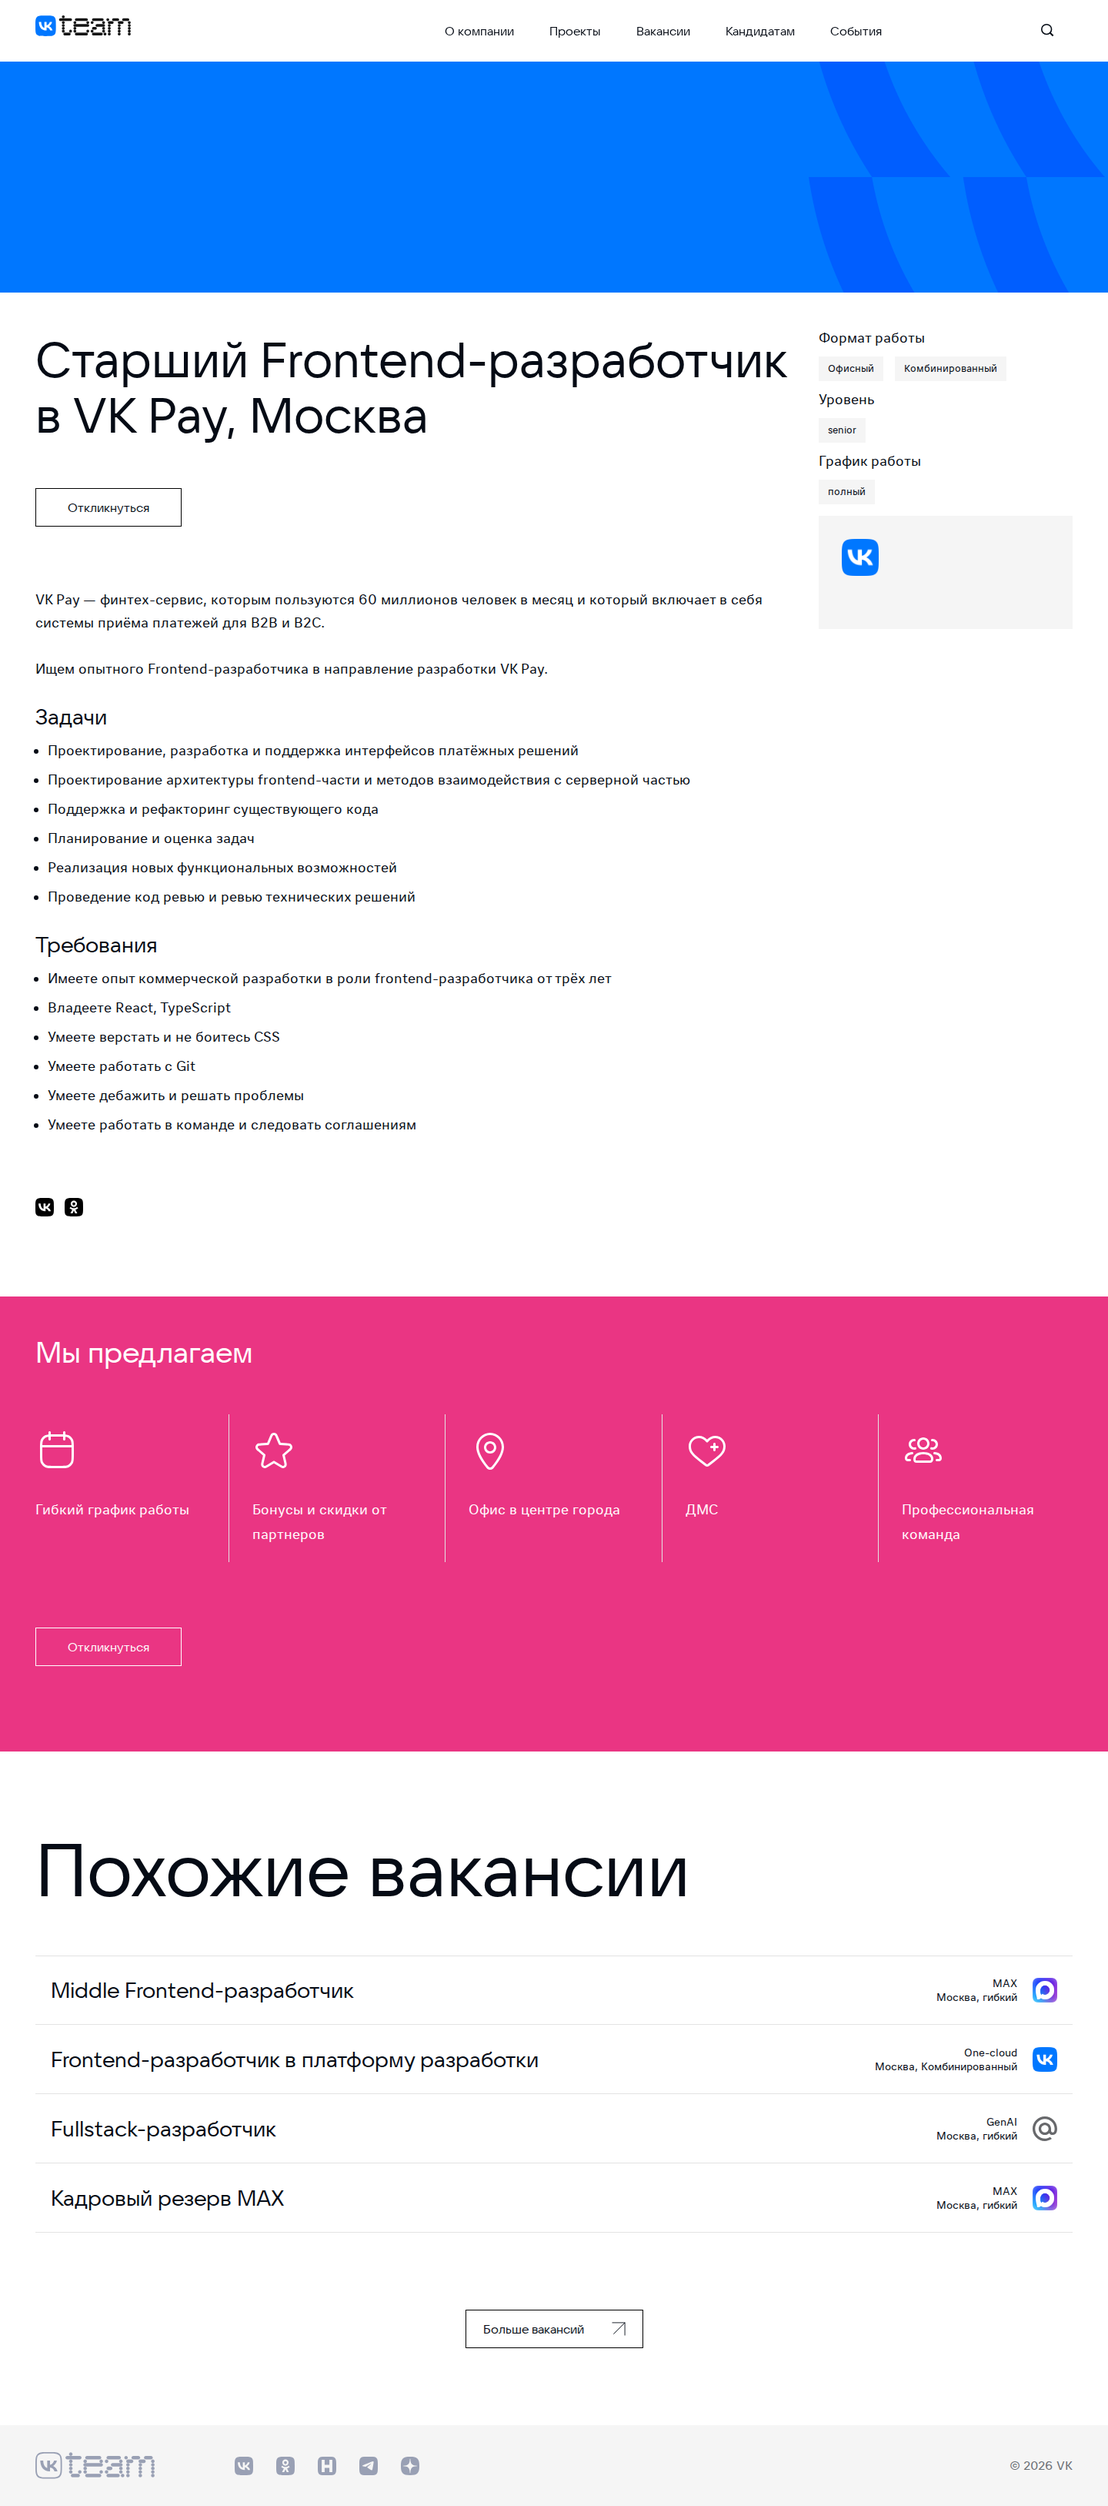
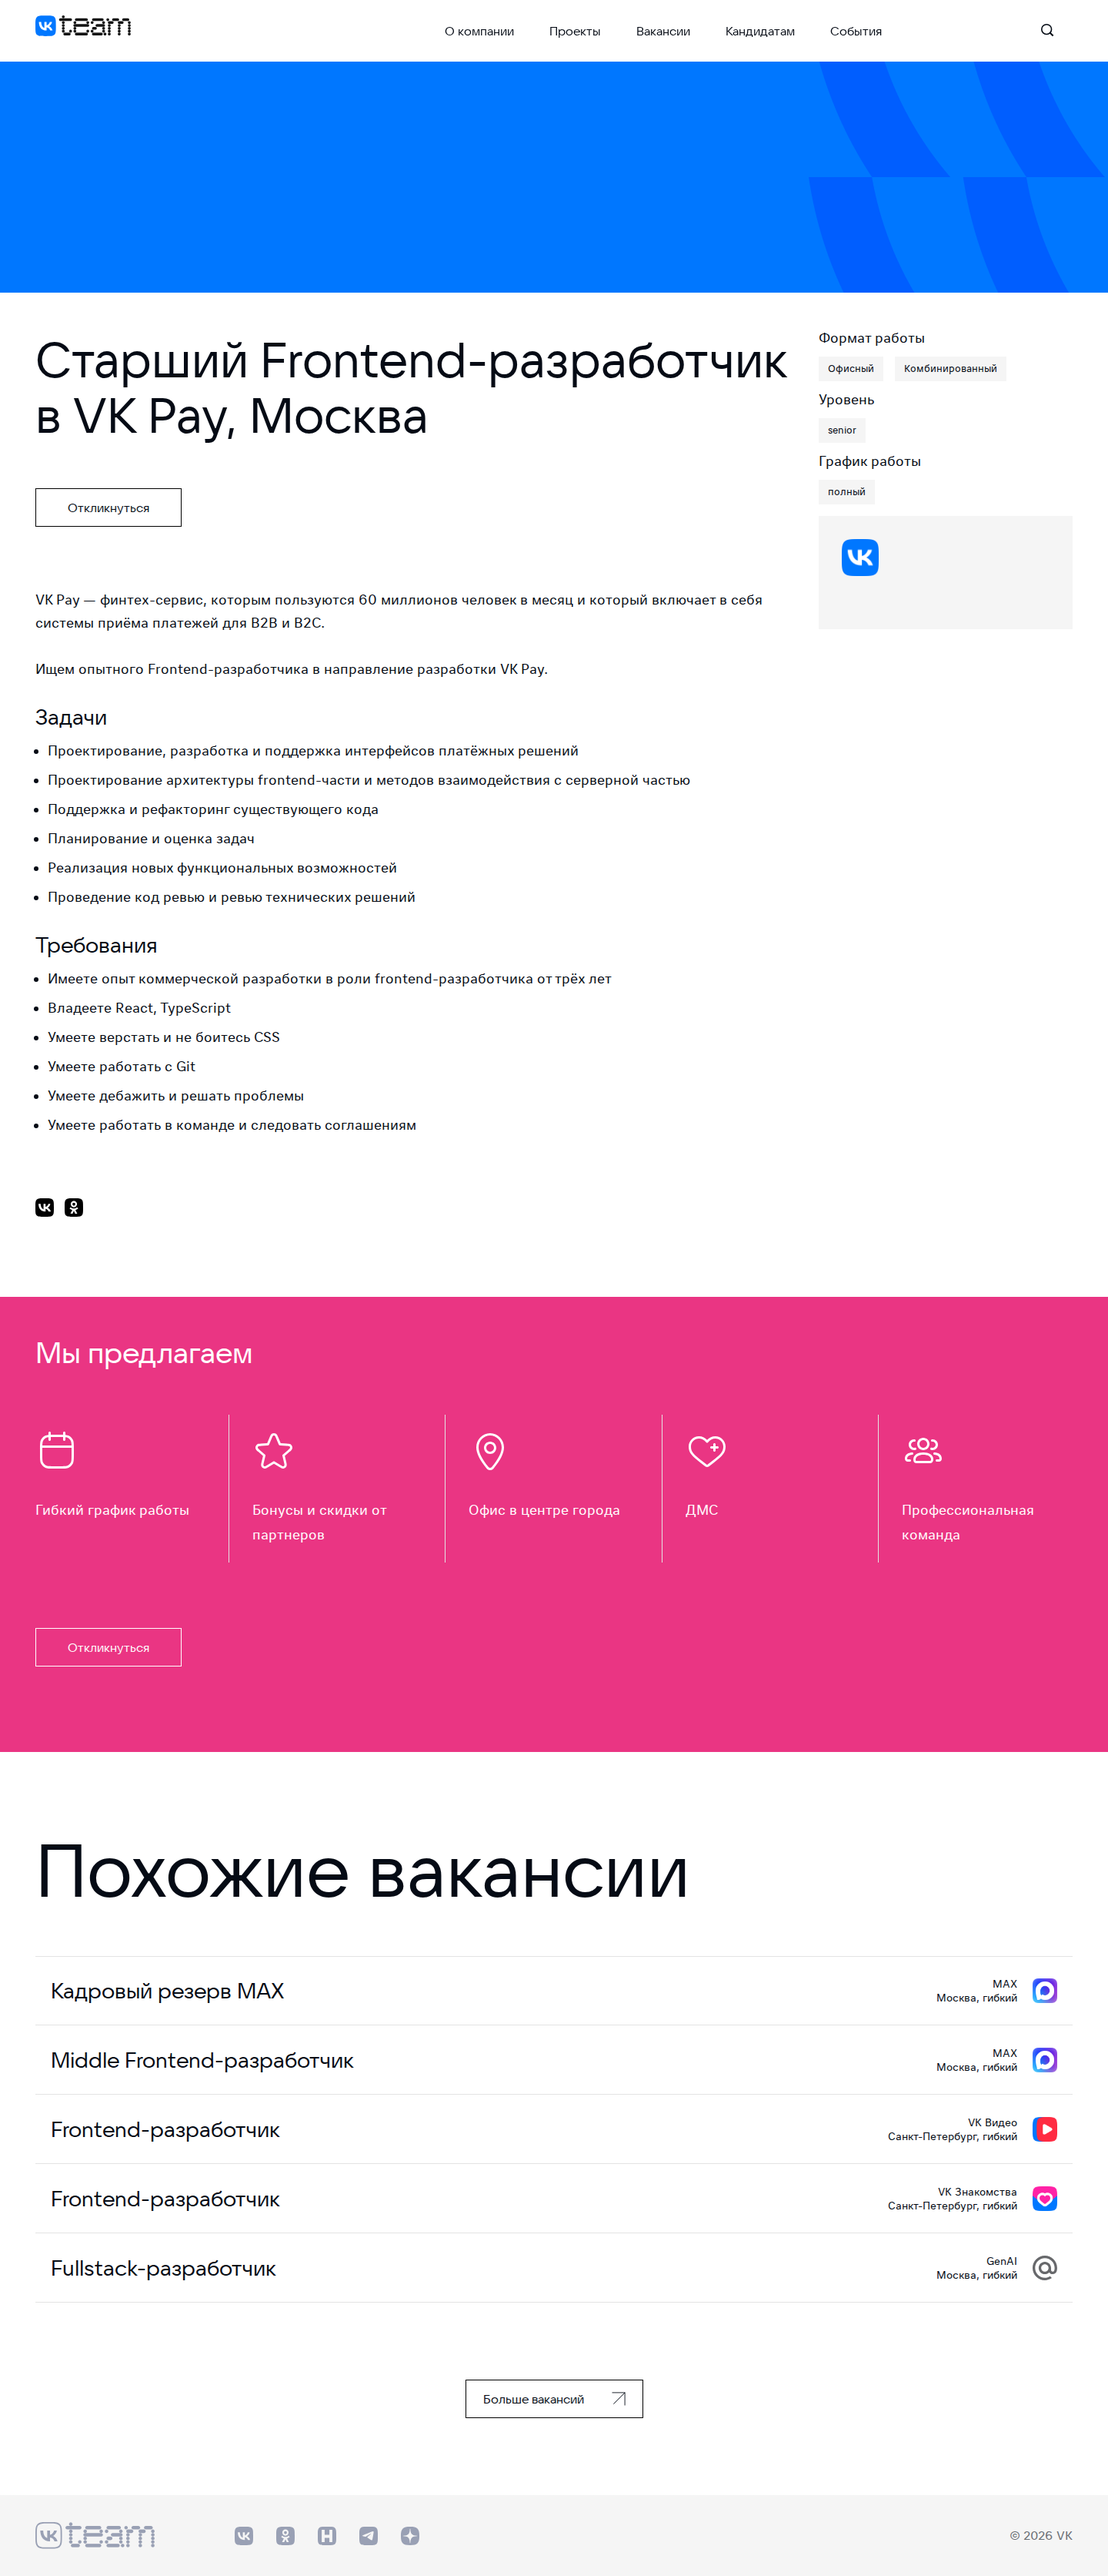
Update VK vacancy snapshot

diff --git a/REPORT.md b/REPORT.md
@@ -1,14 +1,14 @@
 # VK Frontend Vacancy Monitor
 
-Last check: `2026-10-12T22:04:46+03:00`
-Active vacancies: **3**
-Closed since monitoring started: **24**
+Last check: `2026-10-19T17:38:34+03:00`
+Active vacancies: **4**
+Closed since monitoring started: **25**
 
 ## Monthly dynamics
 
 | Month | New | Closed | Active at last check |
 | --- | ---: | ---: | ---: |
-| 2026-10 | 3 | 3 | 3 |
+| 2026-10 | 5 | 4 | 4 |
 | 2026-09 | 3 | 4 | 3 |
 | 2026-08 | 7 | 4 | 4 |
 | 2026-07 | 1 | 1 | 1 |
@@ -17,20 +17,21 @@ Closed since monitoring started: **24**
 
 ## Newest active vacancies
 
+- [Frontend-разработчик](https://team.vk.company/vacancy/54960/) — VK Видео, Санкт-Петербург, гибкий; stack: Frontend, React
+- [Frontend-разработчик](https://team.vk.company/vacancy/54967/) — VK Знакомства, Санкт-Петербург, гибкий; stack: Frontend, Git, JavaScript, React, Redux, REST, TypeScript
 - [Middle Frontend-разработчик](https://team.vk.company/vacancy/54920/) — MAX, Москва, гибкий; stack: CI/CD, CSS, CSS-in-JS, Frontend, Git, HTML, JavaScript, Jest
 - [Старший Frontend-разработчик](https://team.vk.company/vacancy/54816/) — VK Pay, Москва, гибкий; stack: CSS, Frontend, Git, React, TypeScript
-- [Frontend-разработчик в платформу разработки](https://team.vk.company/vacancy/54649/) — One-cloud, Москва, Комбинированный; stack: CSS, Frontend, HTML, React, Vite
 
 ## Stack frequency
 
-- TypeScript: 24
-- React: 21
-- JavaScript: 18
+- TypeScript: 25
+- React: 23
+- JavaScript: 19
+- Frontend: 16
 - CSS: 15
-- Frontend: 14
-- REST: 12
-- Redux: 10
-- Git: 9
+- REST: 13
+- Redux: 11
+- Git: 10
 - Vite: 9
 - HTML: 8
 - CI/CD: 6
@@ -41,6 +42,7 @@ Closed since monitoring started: **24**
 
 ## Recently closed
 
+- Frontend-разработчик в платформу разработки — One-cloud; open for 20 days
 - Frontend-разработчик — Автоматизация внутренних процессов; open for 35 days
 - Старший Frontend-разработчик — MAX; open for 7 days
 - Старший Frontend-разработчик в команду Core Frontend — ВКонтакте; open for 42 days
@@ -50,4 +52,3 @@ Closed since monitoring started: **24**
 - Frontend-разработчик — VK Музыка; open for 28 days
 - Frontend-pазработчик — Технический департамент; open for 14 days
 - Старший Frontend-разработчик BI-системы — VK; open for 13 days
-- Старший Frontend-разработчик сообщества — ВКонтакте; open for 41 days
